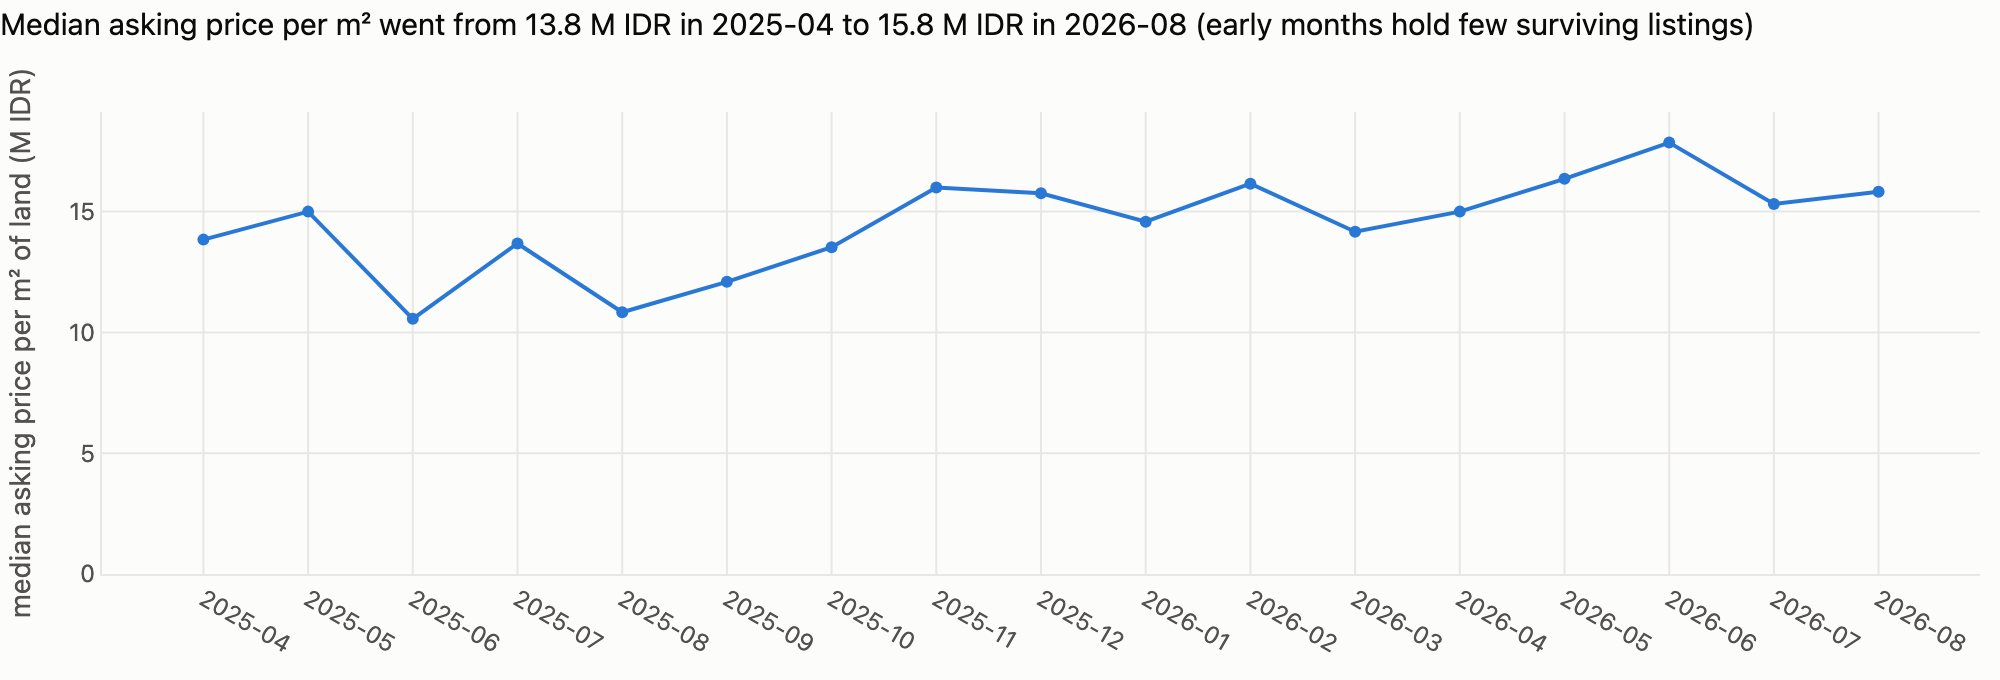
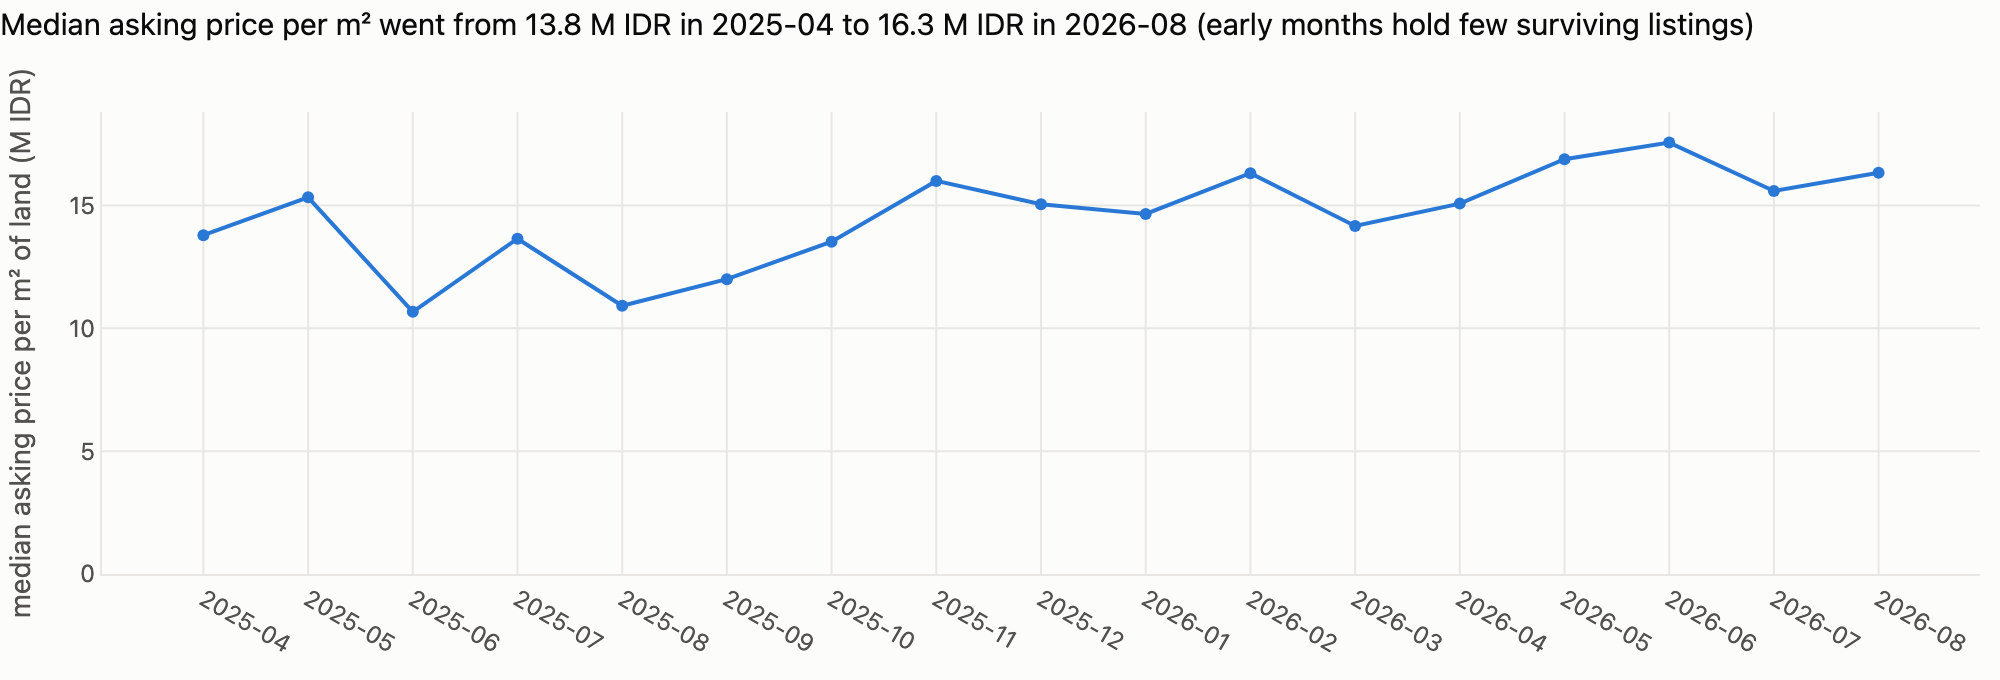
Update from the private repo at 58fd3ca

diff --git a/src/modeling/dataset.py b/src/modeling/dataset.py
@@ -4,7 +4,7 @@ import pandas as pd
 from src.features.admin import add_admin_areas
 from src.features.context import add_context_features
 from src.features.spatial import add_spatial_features
-from src.modeling.split import TEST_SLUGS, usable_listings
+from src.modeling.split import FITTED_ASOF, TEST_SLUGS, fitted_listings, usable_listings
 
 BASIC = ["log_land", "log_building", "bedrooms", "bathrooms", "lat", "lon", "age_days"]
 FLAG = ["coord_is_centroid"]
@@ -23,13 +23,19 @@ def add_derived_features(df: pd.DataFrame) -> pd.DataFrame:
     )
 
 
-def load_usable(part: str = "train") -> pd.DataFrame:
-    """Usable listings with all features. part="train" for all development work; part="test" only for the final evaluation."""
-    df = usable_listings()
-    in_test = df.slug.isin(TEST_SLUGS.read_text(encoding="utf-8").split())
-    df = df[in_test if part == "test" else ~in_test].reset_index(drop=True)
+def load_usable(part: str = "train", fitted: bool = False) -> pd.DataFrame:
+    """Usable listings with all features. part="train" for all development work (every usable listing outside the holdout, so it grows with
+    each crawl); part="test" only for the final evaluation. fitted=True is the live model's own training rows, measured at its fit date: reports
+    and the drift reference use it so they match the model card whatever the crawl has added since."""
+    if fitted:
+        assert part == "train", "the fitted rows are the training rows"
+        df, now = fitted_listings(), pd.Timestamp(FITTED_ASOF.read_text(encoding="utf-8").strip())
+    else:
+        df, now = usable_listings(), pd.Timestamp.now(tz="UTC")
+        in_test = df.slug.isin(TEST_SLUGS.read_text(encoding="utf-8").split())
+        df = df[in_test if part == "test" else ~in_test].reset_index(drop=True)
     df = add_derived_features(add_context_features(add_spatial_features(add_admin_areas(df))))
     return df.assign(
-        age_days=(pd.Timestamp.now(tz="UTC") - df.created_at).dt.days,
+        age_days=(now - df.created_at).dt.days,
         y=np.log(df.price / df.land_area),
     )

diff --git a/src/modeling/split.py b/src/modeling/split.py
@@ -3,10 +3,12 @@ import sys
 import pandas as pd
 from sklearn.model_selection import StratifiedKFold
 
-from src.config import INTERIM, PROCESSED
+from src.config import INTERIM, PROCESSED, STATE
 
 JABODETABEK = "Jakarta|Tangerang|Bekasi|Depok|Bogor"
 TEST_SLUGS = PROCESSED / "test_slugs.txt"  # current holdout (v2); gitignored; written once, never regenerated
+FITTED_SLUGS = STATE / "reference" / "train_slugs.txt"  # the rows the live model was fitted on, one slug per line; written by the gate, copied by `make promote`
+FITTED_ASOF = STATE / "reference" / "train_asof.txt"  # the instant `age_days` is measured from for those rows (ISO time, UTC)
 FROZEN_V1 = PROCESSED / "frozen_v1_slugs.txt"  # every usable slug at the first data freeze; the v2 holdout comes from newer rows only
 SEED = 20261029
 MAX_ROOMS = 8  # more bedrooms or bathrooms means a boarding house, guesthouse or office: out of scope
@@ -23,6 +25,17 @@ def usable_listings() -> pd.DataFrame:
     df = df[(df.bedrooms <= MAX_ROOMS) & (df.bathrooms <= MAX_ROOMS)]
     # take-over ("over kredit") listings quote the fee for taking over a mortgage, not the house value: out of scope
     return df[df.txt_take_over == 0].reset_index(drop=True)
+
+
+def fitted_listings() -> pd.DataFrame:
+    """Exactly the listings the live model was fitted on. Later crawls cannot add rows, and the same-house rule cannot swap one for a newer
+    listing with an earlier slug, as `usable_listings` can."""
+    slugs = set(FITTED_SLUGS.read_text(encoding="utf-8").split())
+    df = pd.read_csv(INTERIM / "portal_listings.csv", parse_dates=["created_at"])
+    df = df[df.slug.isin(slugs)].sort_values("slug").reset_index(drop=True)
+    if len(df) != len(slugs):
+        raise ValueError(f"{len(slugs) - len(df)} of the {len(slugs)} fitted slugs are not in portal_listings.csv")
+    return df
 
 
 def new_since_v1(df: pd.DataFrame) -> pd.DataFrame:

diff --git a/tests/test_split.py b/tests/test_split.py
@@ -1,5 +1,7 @@
 import pandas as pd
+import pytest
 
+from src.modeling import split
 from src.modeling.split import carve_test
 
 
@@ -10,3 +12,16 @@ def test_carve_test_is_stratified_and_deterministic():
     assert len(test) == 100
     share = df[df.slug.isin(test)].city.value_counts(normalize=True)
     assert abs(share["A"] - 0.6) < 0.03 and abs(share["C"] - 0.1) < 0.03
+
+
+def test_fitted_listings_returns_exactly_the_listed_slugs(tmp_path, monkeypatch):
+    # "b-old" is the same house as the later-crawled "a-new" (earlier slug): usable_listings would swap them, the fitted list must not
+    listings = pd.DataFrame({"slug": ["a-new", "b-old", "c-other"], "price": [5, 5, 7], "created_at": pd.to_datetime(["2026-11-02"] * 3)})
+    listings.to_csv(tmp_path / "portal_listings.csv", index=False)
+    (tmp_path / "train_slugs.txt").write_text("b-old\nc-other\n", encoding="utf-8")
+    monkeypatch.setattr(split, "INTERIM", tmp_path)
+    monkeypatch.setattr(split, "FITTED_SLUGS", tmp_path / "train_slugs.txt")
+    assert list(split.fitted_listings().slug) == ["b-old", "c-other"]
+    (tmp_path / "train_slugs.txt").write_text("b-old\nmissing\n", encoding="utf-8")
+    with pytest.raises(ValueError, match="1 of the 2 fitted slugs"):
+        split.fitted_listings()

diff --git a/src/analysis/modeling_report.py b/src/analysis/modeling_report.py
@@ -229,7 +229,7 @@ def ablation_bars(exp: pd.DataFrame) -> go.Figure:
 
 
 if __name__ == "__main__":
-    train, test = add_words(load_usable("train")), add_words(load_usable("test"))
+    train, test = add_words(load_usable("train", fitted=True)), add_words(load_usable("test"))
     pred_ppm2 = np.exp(ensemble_predict(train, test))  # the model predicts log price per m² of land
     inner_scores, _ = text_scores(train, test.iloc[:1])  # out-of-fold text score of the training rows
     train_x = train[MODEL_FEATURES].assign(text_score=inner_scores)

diff --git a/src/analysis/eda.py b/src/analysis/eda.py
@@ -269,7 +269,7 @@ def month_line(by_month: pd.DataFrame) -> go.Figure:
 if __name__ == "__main__":
     for folder in (FIGURES, TABLES):
         folder.mkdir(parents=True, exist_ok=True)
-    df = load_usable()
+    df = load_usable(fitted=True)
     df = df.assign(ppm2_land=df.price / df.land_area, month=df.created_at.dt.strftime("%Y-%m"))
 
     own = df[df.coord_is_centroid == 0]

diff --git a/docs/model-card.md b/docs/model-card.md
@@ -30,7 +30,7 @@ pages, plus OpenStreetMap, BIG boundaries and BNPB flood hazard. 4,031 usable li
 and 562 held out and scored once. Listings are sampled by place names in the listing slug, so houses whose slug names only a street or a cluster
 are under-represented, and rural kecamatan have few or no listings.
 
-The figures on this card describe the model as it was fitted: 3,469 training listings and the 562 held out. Later crawls added listings, and the analysis reports under `reports/` are rebuilt from every listing outside the holdout (3,896 on 2026-11-04), so their training counts and importance tables differ slightly from the fitted model's.
+The analysis reports under `reports/` use exactly the rows the model was fitted on (the 3,469 training listings; the model's slug list is stored with it), so they match this card however many listings later crawls add. Development scripts that read all usable listings outside the holdout grow with each crawl (3,896 on 2026-11-04).
 
 ## Performance
 Median absolute percentage error of price (half of the estimates are closer than this); all out-of-fold on training data
